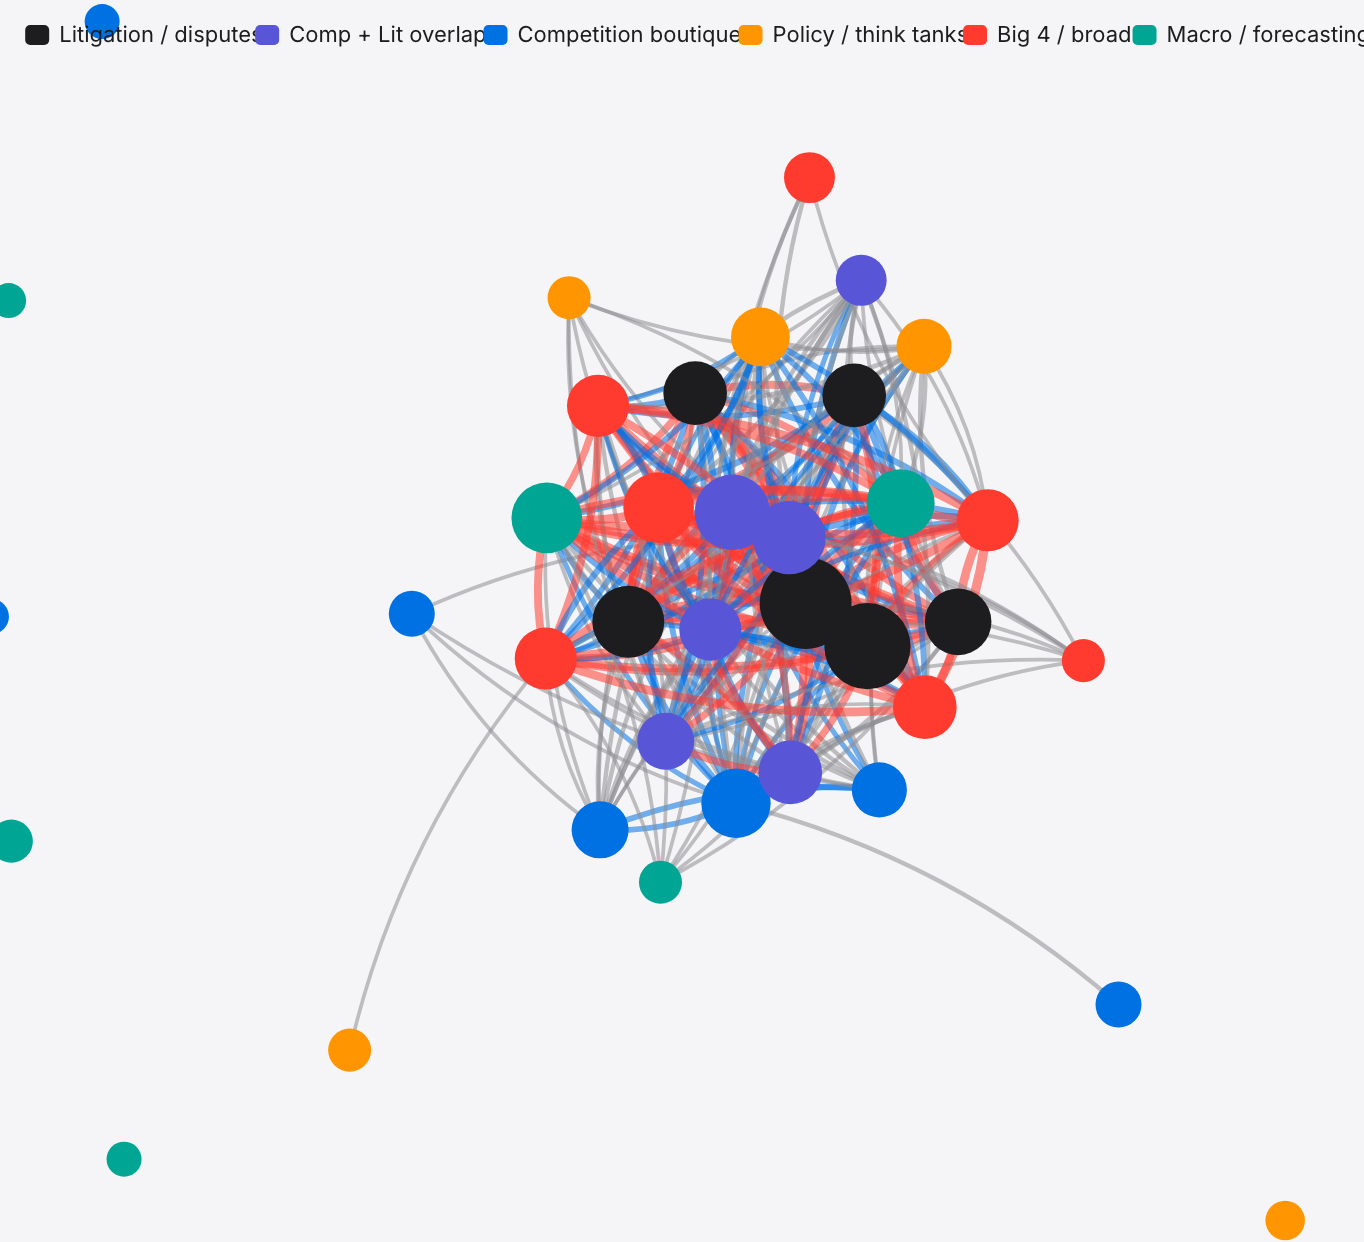
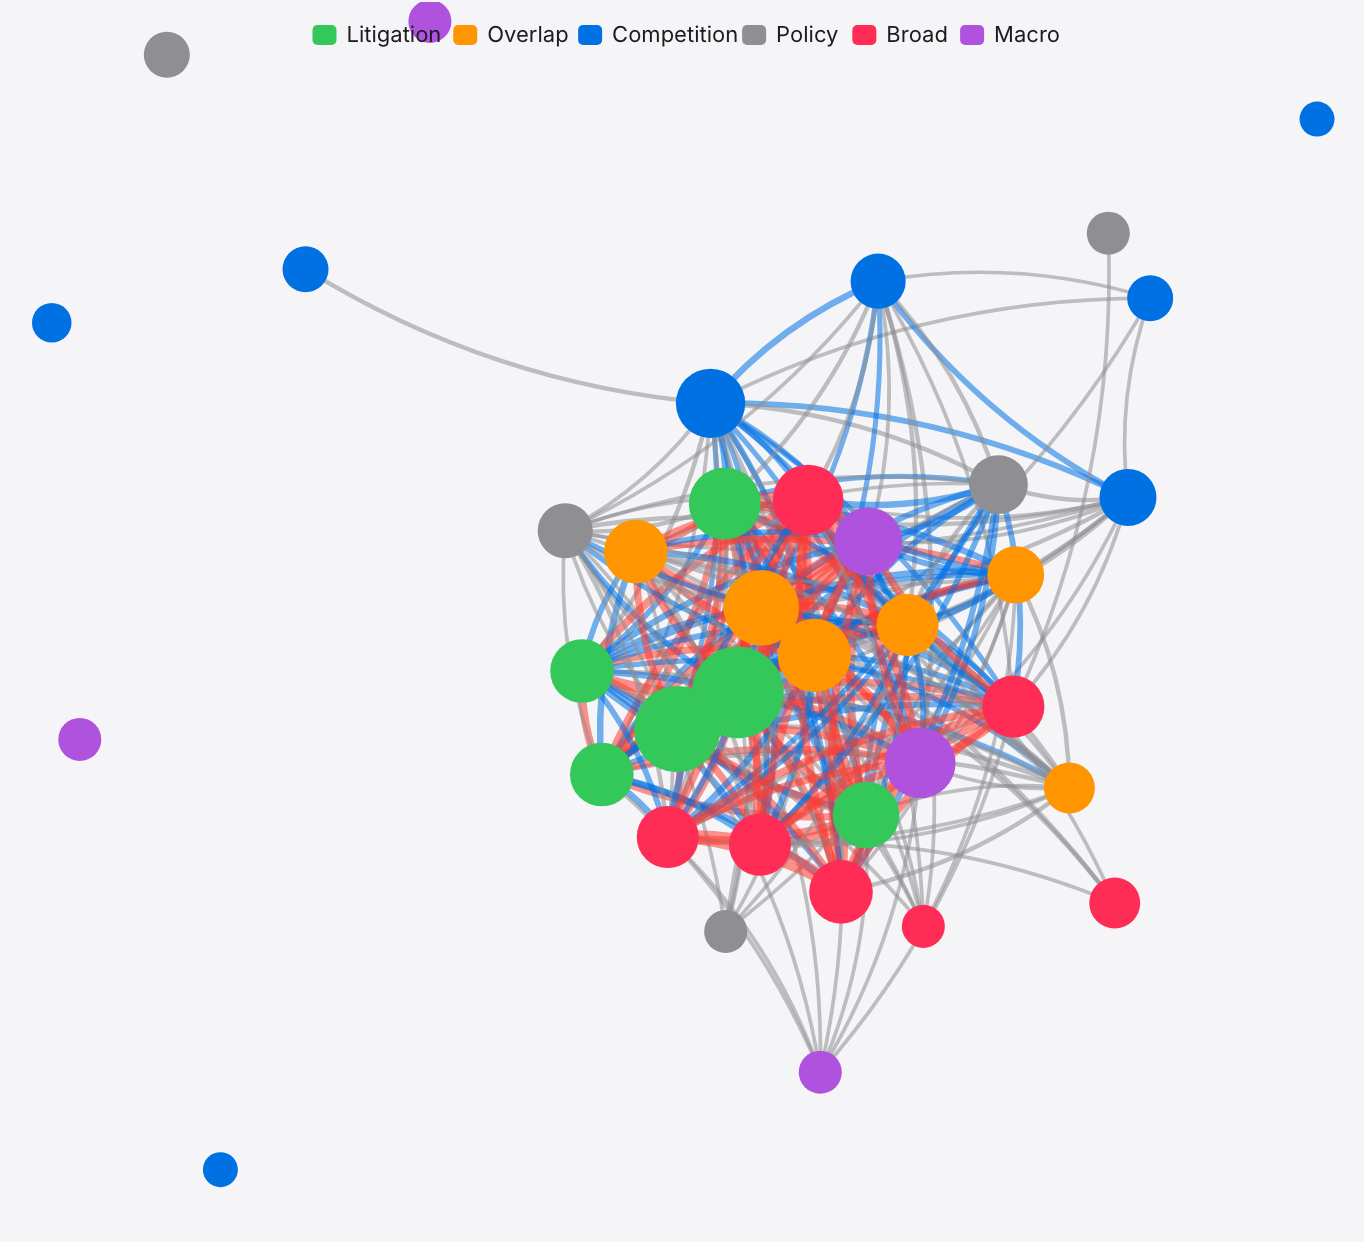
Part 0.2: align category labels and colours with part 0.1 canonical scheme
The seven canonical categories (Broad, Competition, Litigation, Macro,
Policy, Regulation, Overlap) and SEGMENT_COLORS palette were defined in
part 0.1 but part 0.2 used its own six-category scheme with different
names and a different palette. Renamed:

  Litigation / disputes  → Litigation
  Comp + Lit overlap     → Overlap
  Competition boutiques  → Competition
  Policy / think tanks   → Policy
  Big 4 / broad          → Broad
  Macro / forecasting    → Macro

Colours now match part 0.1's SEGMENT_COLORS for each category. Only six
of the seven canonical categories appear in part 0.2 because no firms
in this dataset are categorised as Regulation. Updated the network-chart
legend, the firm tickbox pills, the firm-group headers, and the CSS
swatches in lock-step. Re-exported uk-map / city-map / chart-network
mobile PNGs.

diff --git a/blog/consultancy-series/part0.2-uk-and-global-map.html b/blog/consultancy-series/part0.2-uk-and-global-map.html
@@ -220,12 +220,12 @@
   .tickbox.off { opacity: 0.45; }
 
   /* Category pill colours */
-  .tickbox.cat-0 { color: #1d1d1f; background: #f2f2f4; }
-  .tickbox.cat-1 { color: #5856d6; background: #f0f0fa; }
-  .tickbox.cat-2 { color: #0071e3; background: #e8f3ff; }
-  .tickbox.cat-3 { color: #ff9500; background: #fff4e5; }
-  .tickbox.cat-4 { color: #ff3b30; background: #ffeae8; }
-  .tickbox.cat-5 { color: #00a693; background: #e5f7f4; }
+  .tickbox.cat-0 { color: #34c759; background: #e6f7eb; }  /* Litigation */
+  .tickbox.cat-1 { color: #ff9500; background: #fff4e5; }  /* Overlap */
+  .tickbox.cat-2 { color: #0071e3; background: #e8f3ff; }  /* Competition */
+  .tickbox.cat-3 { color: #8e8e93; background: #f2f2f4; }  /* Policy */
+  .tickbox.cat-4 { color: #ff2d55; background: #ffe5ec; }  /* Broad */
+  .tickbox.cat-5 { color: #af52de; background: #f5e9fb; }  /* Macro */
 
   .firm-group-header {
     width: 100%; font-size: 9px; font-weight: 700;
@@ -428,12 +428,12 @@
             <button class="small-btn" id="catReset">toggle all</button>
           </div>
           <div class="tickbox-list cats" id="catPills">
-            <div class="tickbox cat-0" data-cat="0">Litigation / disputes</div>
-            <div class="tickbox cat-1" data-cat="1">Comp + Lit overlap</div>
-            <div class="tickbox cat-2" data-cat="2">Competition boutiques</div>
-            <div class="tickbox cat-3" data-cat="3">Policy / think tanks</div>
-            <div class="tickbox cat-4" data-cat="4">Big 4 / broad</div>
-            <div class="tickbox cat-5" data-cat="5">Macro / forecasting</div>
+            <div class="tickbox cat-0" data-cat="0">Litigation</div>
+            <div class="tickbox cat-1" data-cat="1">Overlap</div>
+            <div class="tickbox cat-2" data-cat="2">Competition</div>
+            <div class="tickbox cat-3" data-cat="3">Policy</div>
+            <div class="tickbox cat-4" data-cat="4">Broad</div>
+            <div class="tickbox cat-5" data-cat="5">Macro</div>
           </div>
         </div>
 
@@ -525,8 +525,11 @@ const FIRMS = [
   { name:'Continuum Economics', cat:5, hq:'London', offices:['London','Princeton','Singapore'] }
 ];
 
-const CAT_NAMES = ['Litigation / disputes','Comp + Lit overlap','Competition boutiques','Policy / think tanks','Big 4 / broad','Macro / forecasting'];
-const CAT_COLORS = ['#1d1d1f','#5856d6','#0071e3','#ff9500','#ff3b30','#00a693'];
+// Category vocabulary aligned with part0.1 SEGMENT_COLORS canonical set.
+// Note: 'Regulation' (the 7th canonical category) is omitted here because no
+// firms in this dataset are categorised as Regulation.
+const CAT_NAMES = ['Litigation','Overlap','Competition','Policy','Broad','Macro'];
+const CAT_COLORS = ['#34c759','#ff9500','#0071e3','#8e8e93','#ff2d55','#af52de'];
 const NUM_CATS = CAT_COLORS.length;
 
 // ============================================================================
